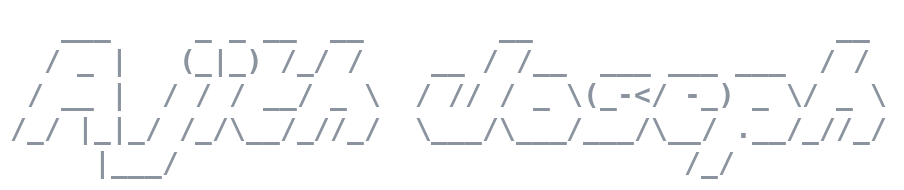
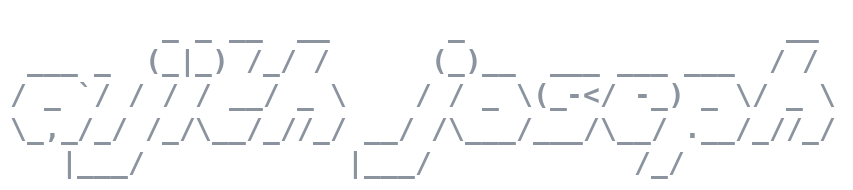
Use lower case for my name sign-off

diff --git a/README.md b/README.md
@@ -79,4 +79,4 @@ Every week I share build logs, architecture decisions, and what actually works i
 
 Want to talk about evals, AI infrastructure or keeping AI-written code honest? [Message me on LinkedIn](https://linkedin.com/in/theajithjoseph).
 
-<p align="center"><img src="assets/name.png" width="260" alt="Ajith Joseph"></p>
+<p align="center"><img src="assets/name.png" width="260" alt="ajith joseph"></p>
